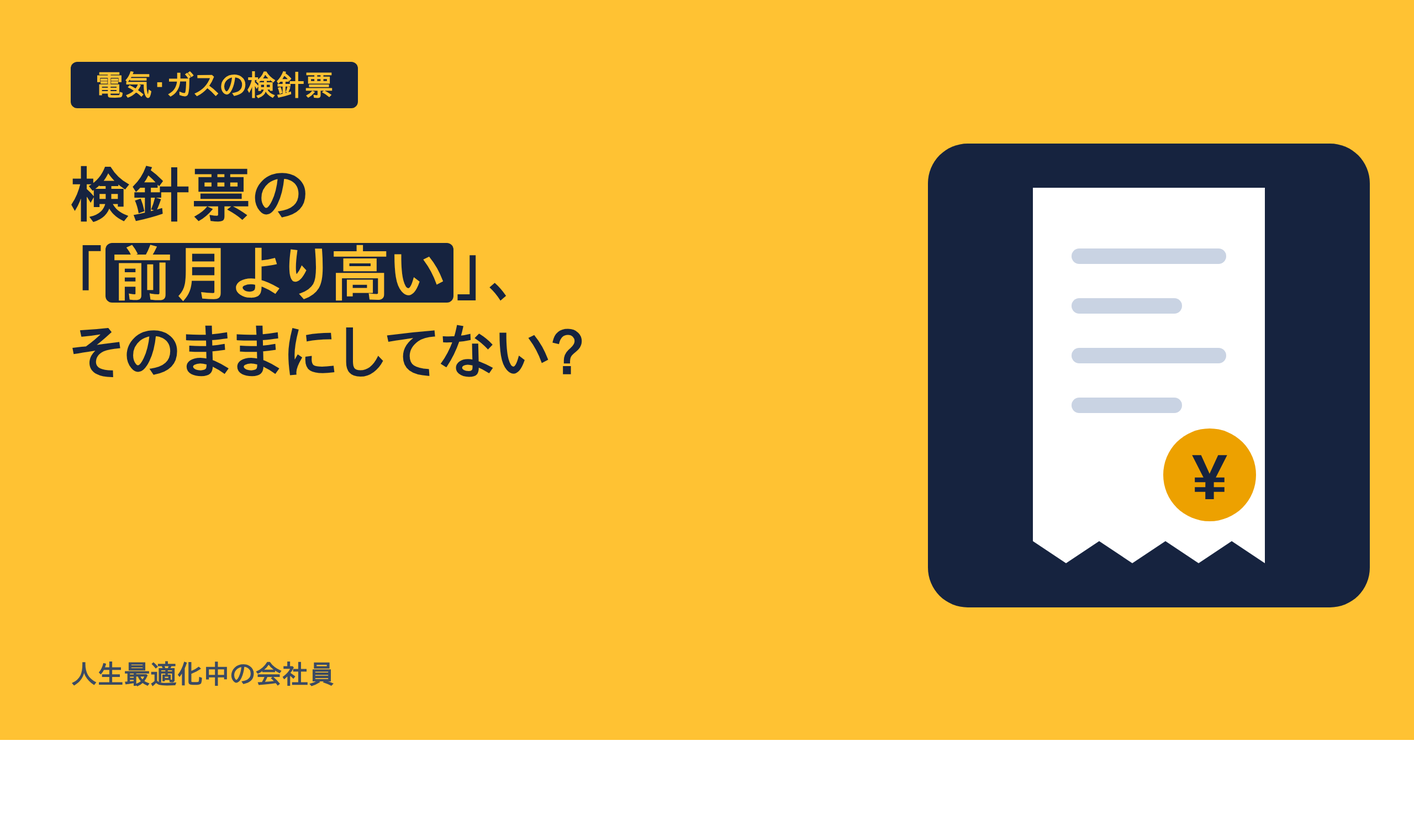
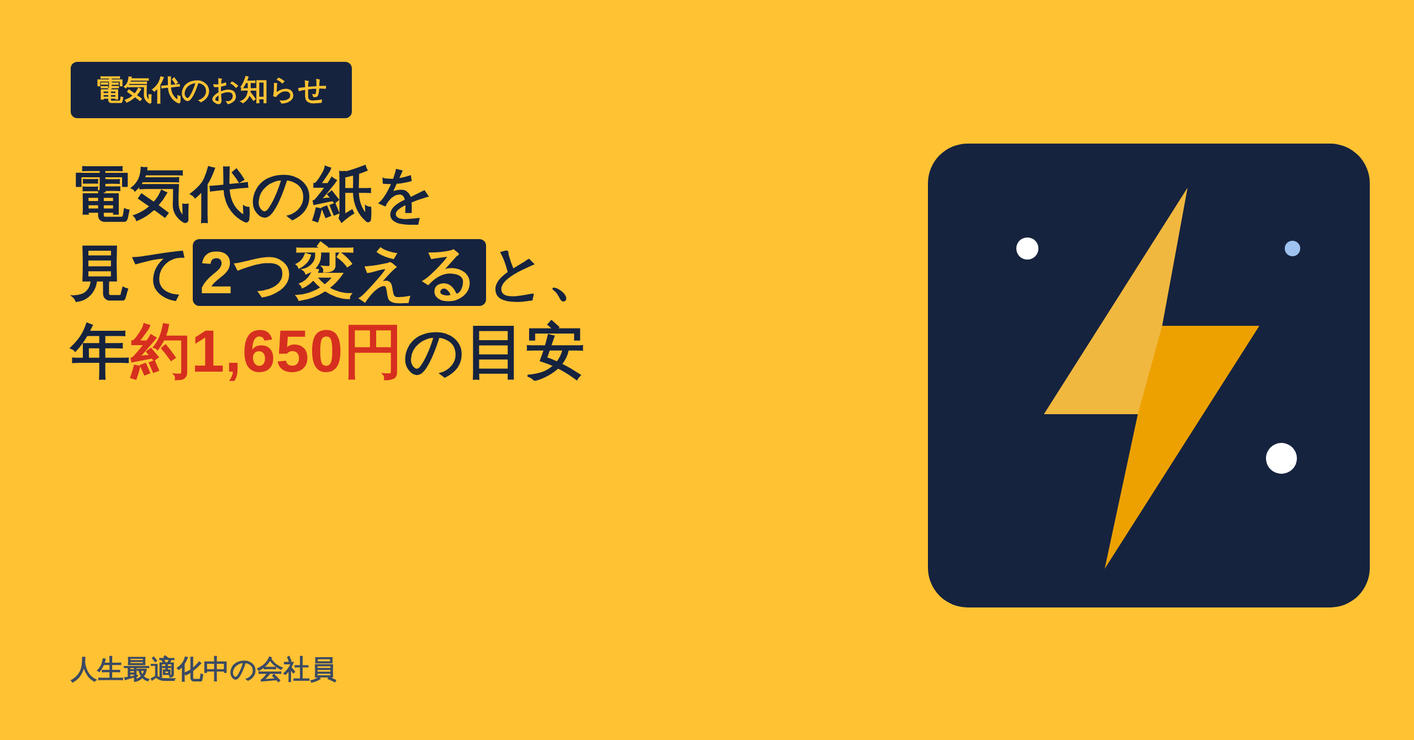
2026-11-02_001: revised with numbers, figures
Claude-Session: https://claude.ai/code/session_019jxzMkHZEL8EPC28xkVZW1

diff --git a/runs/2026-11-02_001/05_revised.md b/runs/2026-11-02_001/05_revised.md
@@ -1,0 +1,142 @@
+# 電気代の紙を見て2つ変えると、年約1,650円の目安
+
+【画像:cover.png】
+
+こんにちは、人生最適化中の会社員です。今日は、毎月届く電気代の紙を、数字つきで一緒に見ていきます。
+
+毎月届く電気代の紙(検針票といいます。使った電気の量と料金が書かれた、ポストの紙やアプリの画面のことです)。いちばん大きい合計金額だけ見て、そっと閉じる。そんな人もいると思います。
+
+この紙には「使用量」の欄があります。数字は kWh(キロワットアワーと読む、使った電気の量の単位)で書かれています。この数字が1減ると、電気代はおよそ33円動く目安です。
+
+たとえば、紙を見て「冷房を1℃ゆるめる」「白熱電球を1日1時間減らす」と決めて変えたとします。環境省の数字で計算すると、合わせて年約1,650円の目安です(計算は2か所めで見せます)。
+
+ただ、紙を見るだけでは電気代は下がりません。見て気づいたことを暮らしで変えたとき、はじめて動きます。金額はすべて目安で、下がる保証ではありません。
+
+## 結論:紙で見るのは3か所
+
+契約や会社によって、表示の名前や並びは違います。
+
+【画像:fig1.png】
+
+1. 使用期間の欄:いつの分か、何日分か
+2. 使用量の欄:増えたか、減ったか。ここが金額につながる
+3. ほかの行と契約欄:使用量とは別に動く行がないか
+
+## 先に「ものさし」を決めます
+
+「使用量が1減ったら何円か」を出すには、使用量1あたりの値段が要ります。今回は環境省の2つの数字から作りました。
+
+環境省の調査(令和4年度=2022年度、速報値)では、全国の1世帯あたりの電気は年間3,950kWh、支払金額は13.2万円でした。割り算はこちらでしました。
+
+13.2万円 ÷ 3,950kWh = 約33円/kWh
+
+これは全国平均から出した目安の単価です。前提を3つ書いておきます。
+
+- 1年分の支払金額を、使用量で割った平均です(割り算で出した目安)
+- 基本料金のような固定の部分も混ざっているので、実際に減る額とはずれることがあります
+- 全国平均の支払い額は、令和3年度11.3万円から令和4年度13.2万円へ、1年で約17%動いています(環境省)。33円は、その1年分から出した数字です
+
+以下、この「1kWh=約33円」で計算します。
+
+## 1か所め:使用期間の欄
+
+最初に見るのは、使用期間の日付です。請求の月と、電気を使った期間は、同じとは限りません。日数が違えば、使用量もその分変わります。
+
+ここでやることは、前年の同じ時期の使用量と並べて比べる準備です。前の月との比較は、季節の差が混ざるので参考程度にします。
+
+ここは金額が出る場所ではありません。ただ、土台がずれたまま比べると、次の判断を間違えやすくなります。
+
+## 2か所め:使用量の欄(見て、何を変えるか)
+
+ここが金額につながる場所です。使用量の数字が1減ると約33円、たとえば月に10減らせたら約330円(年なら33円×120で約4,000円)です。
+
+では、何で減らすのか。環境省が公開している数字を、同じものさしに当てはめます。
+
+**エアコン**
+環境省のページによると、エアコンの室温を1℃ゆるめると、消費電力量は冷房で約13%、暖房で約10%減る見込みです。ここで出てくる夏28℃・冬20℃は「部屋の温度」の目安の話です。
+
+別のページ(環境省の節電のページ)には、リモコンの冷房の設定を27℃から28℃に1℃上げた場合、年間30.2kWhの削減とあります。環境省のページの条件(使い方や時間など)での数字です。こちらは設定温度の試算で、上の部屋の温度の話とは別です。
+
+30.2kWh × 33円 = 996.6円で、約1,000円です。ただし冷房は夏の話なので、来年の夏の目安になります。
+
+暖房は、環境省のページに割合(約10%)しかなく、もとの使用量が分からないため、金額は出せませんでした。
+
+**照明**
+同じ環境省の節電のページに、照明を1日1時間減らすと、白熱電球で年19.71kWh、蛍光ランプで年4.38kWhの削減とあります。
+
+19.71kWh × 33円 = 約650円、4.38kWh × 33円 = 約140円です。白熱電球を使っていない家では、これより小さくなります。LED照明の数字は確認できなかったので、載せていません。
+
+**冒頭の「2つ」の合計**
+冷房1℃の約1,000円(996.6円)と、白熱電球1時間の約650円(650.4円)を足すと、約1,647円です。丸めて、年約1,650円。月にならすと約140円です。使用量では、30.2kWh + 19.71kWh = 約50kWhになります。
+
+月10の減らし方に比べると、まだ届きません。小さな工夫を重ねて届くかどうか、というのが実感に近いと思います(推測)。
+
+**待機電力**
+環境省のページには、家庭の電気の約5%が待機電力、とあります。日付のない資料で、古い可能性もあります。年3,950kWhの5%は約200kWhで、33円をかけると約6,500円です。
+
+これは待機電力の合計の目安で、全部はなくせません。冷蔵庫や時計のように、抜けないものも含まれます。節約できる額とは別物として見るのがよさそうです。
+
+ここで使った節電のページは、2022年6月に更新された環境省の過去のページです。今の機器や暮らしに、そのまま当てはまるとは限りません。
+
+## 3か所め:ほかの行と契約欄
+
+使用量以外の行も並んでいます。使用量が同じなのに金額が動いたときは、その行に手がかりがあるかもしれません。細かい仕組みはここでは省きます。「使用量とは別の行」とだけ見ておけば十分です。
+
+ここでやることは、「使用量が増えた分」と「それ以外の行が増えた分」を、別々にメモするだけです。
+
+契約欄には、契約の内容が書かれています。基本料金などの決まり方は会社やプランで違うので、この記事では金額を書きません。契約欄に書いてある内容を、会社の公式の料金表で確かめておくと安心です。
+
+## つまずきやすいところ
+
+- 金額が上がったとき、使用量の欄は見ずに、家族に「つけっぱなしにしてない?」と聞いてしまう、という人もいるかもしれません。使用量が同じなら、ほかの行が動いたのかもしれず、誰かが使いすぎたとは限りません。
+- 前の月より使用量が減っているのを見て、「節約できた」と思う、という人もいると思います。季節や日数でも変わるので、前年の同じ時期と並べると、判断しやすくなります。
+
+## まとめ:数字は1枚の表に
+
+- 使用量の数字が1減ると、約33円(目安)
+- 冷房1℃は年約1,000円(来年の夏の目安)
+- 待機電力の数字は、なくせる額ではない
+
+細かい数字は、下の表にまとめました。
+
+【画像:fig2.png】
+
+次に紙が届いたら、使用期間と使用量の2か所だけでも見てみてください。
+
+前の記事「11月から電気代が上がる予定。先に確かめたい契約の3項目」に、契約の確かめ方をまとめています。
+
+https://note.com/chidou_taxian/n/ne911cb6f2f29
+
+※この記事は一般的な情報で、特定の契約や乗り換えをすすめるものではありません。金額は令和4年度の全国平均から出した目安で、効果を保証するものではなく、住まいや使い方で変わります。判断はご自身で行い、必要に応じて電力会社や専門家に相談してください。
+
+最後まで読んでくれて、ありがとうございます。
+
+次回は、「手取りが思ったより少ない」の中身を、給与明細で一緒に見ていきます。
+
+## 情報源
+- https://www.env.go.jp/content/000211423.pdf (環境省 令和4年度 家庭部門のCO2排出実態統計調査 速報値。令和5年10月公表。取得日2026-11-02)
+- https://www.env.go.jp/earth/ondanka/kateico2tokei/energy/detail/06/ (環境省 エアコンの使い方について。取得日2026-11-02)
+- https://ondankataisaku.env.go.jp/coolchoice/setsuden/home/saving03.html (環境省 みんなで節電アクション「エアコンで節電」。2022-06-28更新。古い情報の可能性あり)
+- https://ondankataisaku.env.go.jp/coolchoice/setsuden/home/saving01.html (環境省 みんなで節電アクション「こまめにスイッチオフ」。2022-06-28更新。古い情報の可能性あり)
+- https://ondankataisaku.env.go.jp/coolchoice/zc-action30/ (環境省 ゼロカーボンアクション30。日付なし。古い情報の可能性あり)
+- https://note.com/chidou_taxian/n/ne911cb6f2f29 (筆者の過去記事。契約の確かめ方)
+
+## 修正履歴
+- 問題1: タイトルを「電気代の紙を見て2つ変えると、年約1,650円の目安」(26字・1文)に変更。kWhを外し、「見て変えたとき」「目安」が分かる形にした。本文の具体策(冷房1℃+白熱電球1時間=約1,647円)と数字が合うことを確認。「探す3か所」は題から外した。
+- 問題2: 主役を「使用量の数字が1減ると約33円」に変更。月10は「たとえば」に下げ、冷房1℃+白熱電球1時間=996.6+650.4=約1,647円→年約1,650円、月約140円を、計算つきで正直に並べた。月10に届かない点も明記。
+- 問題3: 冷房は「来年の夏の目安」と明記。暖房は割合(約10%)のみで金額を出せない理由を1文で追加。白熱電球は「使っていない家ではこれより小さい」と追加。
+- 問題4: 前提に、令和3年度11.3万円→令和4年度13.2万円(約17%動いた)を追加。令和4年度に「2022年度」を併記。「推測を含む目安」を「割り算で出した目安」に変更。
+- 問題5: kWhを導入で1回「キロワットアワー、使った電気の量の単位」と説明。以後は「使用量の数字」と言いかえ、出る回数を減らした。
+- 問題6: 導入で数字(約33円、年約1,650円)を先に出した。注意書きは1行に。前の記事リンクは末尾(免責・お礼の前)へ移動。
+- 問題7: 燃料費調整額・賦課金・アンペアの名前と仕組みの説明を削り、「使用量とは別の行」とだけ書き、契約欄は会社の公式の料金表で確かめる、までにした。
+- 問題8: 「28℃は部屋の温度の話」と「設定を27→28℃は設定温度の試算で別の話」を分けて書いた。30.2kWhに「環境省のページの条件での数字」と添えた。
+- 問題9: 【リンク任意:…】を本文から外し、author_notes.md に移した(貼る場合はまとめのあと、免責文と離して)。旧版 note_post は使わないこと、run.json の plan.title が旧版の題のままであることを author_notes.md に記録(export-note で作り直す)。
+- 問題10: あるあるを3か所に削減(冒頭、家族に聞く、前の月より減った)。待機電力のつまずきは削除。author_notes.md の記録も合わせた。
+- 問題11: figures.json を作り直し(cover=tag「電気代のお知らせ」・icon bolt・猫なし・1行12字以内、fig1=timeline 3項目、fig2=checklist 3列5行・boxes:false・widths合計1152)。題・列名・tagに「検針票」を使わず、kWhは列名の説明つきのみ。蛍光ランプのW数は本文にも図にも書いていない。
+- 問題12: 「2022年に公開」を「2022年6月に更新された環境省の過去のページ」に変更。
+- 問題13: 注意書きを冒頭1行・前提・末尾免責に整理。まとめを3行にして、細かい数字は fig2 に任せた。字数は約2,900字前後で2,500〜3,500字の範囲(手で数えた概算)。
+- 問題14: 待機電力の「上限の目安」をやめ、「合計の目安(全部はなくせない)」にそろえた(本文・図)。
+- 問題15: 前の記事の題「11月から電気代が上がる予定。先に確かめたい契約の3項目」を添えた。URLは変更なし。
+- 問題16: 「読まないでください」「確かめてください」を、「別物として見るのがよさそうです」「確かめておくと安心です」に変更。説教調を和らげた。
+- 問題17: 蛍光ランプのW数は、本文・図とも書いていない(4.38Wは使わず)。
+- 校正: 「検針票」は導入の1回だけ(説明つき)、以後は「電気代の紙」に統一。「お知らせ」と「紙」の表記ゆれを「紙」にそろえた。[S4]などの記号を本文から外し「(環境省)」に。「(筆者の計算)」は「割り算はこちらでしました」の1回に。「見たら、次にすることは」の繰り返しを言い換え。読点を減らした。説明口調の「先に大事なことを書きます」「順番に書いていきます」を削除。

diff --git a/runs/2026-11-02_002/03_draft.md b/runs/2026-11-02_002/03_draft.md
@@ -1,0 +1,124 @@
+# ネット通販の「合わなければ返せる」、店の決まり次第
+
+【画像:cover.png】
+
+こんにちは、人生最適化中の会社員です。今日は、ネット通販の返品の話を一緒に確認します。
+
+夜、スマホでセールのページを見ていて、気に入った服をカートに入れる。サイズに迷ったので、MとLを両方注文。「合わなければ返せばいいし」と、返品のルールは読まずに「購入する」を押す。
+
+数日後に届いた2着は、どちらもしっくりこない。返そうとして商品ページを見直すと、小さな字で「返品不可」。
+
+こういう場面に心当たりがある、という人もいると思います。この記事では、国民生活センターの案内をもとに、ネット通販の返品の「そもそもの決まり」を整理します。
+
+## 結論:返せるかどうかは、まずお店の決まり
+
+先に結論です。
+
+- ネット通販には、「一定期間なら無条件で契約を取り消せる制度(クーリング・オフ)」が、法律上ありません。
+- 返品できるかどうか、できる場合の条件は、まずそのお店の決まり(利用規約などの特約)で決まります。
+- だから、防ぐ方法はシンプルです。買う前に、返品の条件を1か所だけ見ておくこと。
+
+国民生活センターも、通信販売(ネット通販やテレビショッピングなど)はクーリング・オフできない、と案内しています。同センターは、購入前に「返品できるか、できる条件は何か」を確認することと、商品は受け取ったらすぐ中身を確認することを呼びかけています。
+
+「8日以内なら、理由は何でも返せる」と思っていた人は、ここで考え方を切り替えておくと安心です。
+
+## 訪問販売とは、ここが違います
+
+「クーリング・オフ」という言葉を聞いたことがある人は、多いと思います。この制度が使えるのは、通販ではなく、主に次のような取引です。国民生活センターの解説では、期間は次のとおりです。
+
+- 訪問販売、電話勧誘販売、特定継続的役務提供、訪問購入:8日間
+- 連鎖販売取引、業務提供誘引販売取引:20日間
+
+どちらも、契約書面などを受け取った日から数えます。つまり、家に来た人に勧められた、電話で勧められた、といった「断りにくい状況で契約してしまいやすい取引」に用意された仕組みです。
+
+一方、ネット通販は、自分で商品を選び、自分のタイミングで注文します。そのため、同じ「8日」という数字があっても、意味が違います。ここを混ぜてしまうのが、よくある思い込みのもとです。
+
+訪問販売や電話勧誘の詳しい手順は、この記事では扱いません。契約について心配なときは、後ろで紹介する相談先に聞いてください。
+
+## お店が決まりを書いていないとき
+
+では、お店が返品について何も書いていなかったらどうなるのか。国民生活センターの案内では、次のように整理されています。
+
+- 返品の条件が、お店の決まり(特約)で定められていれば、それに従う
+- 特約がなければ、商品を受け取った日を含めて8日以内なら返品できる。ただし、返品にかかる費用は消費者(買った人)の負担
+
+ここで気をつけたいのは、「8日以内なら返せる」は、お店が何も書いていないときの話だということです。「返品不可」と書かれていれば、そちらが先に来ます。しかも、返せる場合でも、返品の費用は自分持ちです。
+
+「無料で返せる」と思って買った商品が、実は費用がかかる。この食い違いに、買ってから気づく人もいると思います。
+
+## 買う前に見る所と、届いたらすぐやること
+
+具体的に、何をすればいいか。国民生活センターの呼びかけをもとに、順番にしてみます。
+
+【画像:fig2_checklist.png】
+
+**買う前:商品ページや利用規約で「返品」の条件を見る**
+
+見る場所は、商品ページの注意書きや、お店の利用規約(「返品」「交換」といった項目)です。見るのは次の2点だけでかまいません。
+
+- 返品できるのか、できないのか
+- できるなら、どんな条件か(期間や、商品の状態など)
+
+カートに入れたあと、「購入する」を押す前の1分で足ります。
+
+**届いたら:すぐ中身を確認する**
+
+箱が届いたら、早めに開けて、注文したものと合っているか、傷や汚れがないかを確かめます。国民生活センターも、受け取ったらすぐ中身を確認するよう呼びかけています。
+
+なお、「8日」の数え方は、受け取った日を含めてです(お店が決まりを書いていないとき)。確認が遅れるほど、使える日数は減っていきます。
+
+**あとから困らないために:やり取りの記録を残す**
+
+これは、国民生活センターの案内にあった項目ではなく、僕の考えです。注文の画面や確認メール、お店とのやり取りは、削除せずに残しておくと、あとで状況を説明しやすいと考えられます。
+
+## つまずきやすいところ(読者のあるある)
+
+ここまでの内容で、つまずきやすい場面を2つ挙げます。
+
+**「セールの勢いで、返品の条件を見ずに注文する」**
+
+人気の商品は、売り切れが気になって急いでしまうもの。返品条件を見ないまま購入ボタンを押している、という人もいると思います。対策は、買う前の1分で、先ほどの2点だけ見ることです。
+
+**「届いた箱を、しばらく開けない」**
+
+ほかの用事に追われて、段ボールが部屋の隅に置きっぱなし。気づけば何日も経っていた、という人もいると思います。お店が決まりを書いていないときの「8日」は、受け取った日を含めて数えるので、開けるのが遅れるほど、返せる日数が減ります。お店が返品の期間を決めている場合も、確認が早いに越したことはありません。
+
+## 困ったときは、188へ
+
+返品できると思っていたのにできない、お店と話がかみ合わない。そんなときは、1人で抱え込まずに相談できます。
+
+お住まいの自治体の消費生活センターなどに相談できます。どこに連絡すればいいか分からないときは、消費者ホットライン「188」が案内されています。
+
+個別の注文が返品の対象になるかどうかは、この記事では判断できません。具体的な状況は、相談先に確認してください。
+
+## まとめ
+
+- ネット通販には、「一定期間なら無条件で契約を取り消せる制度(クーリング・オフ)」が法律上ない
+- 返品できるかどうかは、まずお店の決まり(特約)で決まる
+- お店が決まりを書いていないときは、受け取った日を含めて8日以内なら返品できる。ただし返品の費用は自分持ち
+- 買う前に、返品の条件を見る。届いたら、すぐ中身を確認する
+- 困ったら、自治体の消費生活センターや、消費者ホットライン188へ
+
+次にネットで買い物をするとき、カートに入れる前に、「返品」の文字を1回だけ探してみてください。
+
+最後まで読んでくれて、ありがとうございます。
+
+次は、電話や訪問で契約してしまったときに「やめられる期間」を数える方法を、公式の案内で確認する予定です。
+
+この記事は、一般的な情報です。個別の契約や注文については、お住まいの自治体の消費生活センターなどに確認してください。判断は、ご自身でお願いします。
+
+## 情報源
+- https://www.kokusen.go.jp/soudan_now/data/coolingoff.html (国民生活センター「クーリング・オフ」、ページの更新日 2022-06-01、取得日 2026-11-02)
+- https://www.kokusen.go.jp/mimamori/mj_mailmag/mj-shinsen471.html (国民生活センター 見守り新鮮情報 第471号「通信販売はクーリング・オフできません」、2024-01-16、取得日 2026-11-02)
+
+## 執筆メモ(事実・推測・体験の区別)
+- 事実: 通販に法律上のクーリング・オフがない/返品の可否・条件は特約に従う/特約がなければ受け取った日を含めて8日以内は返品可で費用は消費者負担/購入前に返品条件を確認、受け取ったらすぐ中身を確認/自治体の消費生活センターに相談でき、消費者ホットライン188が案内されている → [S2][S1]。訪問販売・電話勧誘販売・特定継続的役務提供・訪問購入は8日、連鎖販売取引・業務提供誘引販売取引は20日、契約書面などを受け取った日から → [S1]。
+- 推測: 「記録を残すと説明しやすいと考えられます」(出典なし。本文でも「僕の考え」と明記)/訪問販売は「断りにくい状況で契約しやすい取引に用意された仕組み」という言い回しは、一般的な説明として書いた補足(出典の文言ではない)/あるある場面(導入、つまずき2か所)。
+- 体験: 筆者の体験は書いていない。導入の場面は「こういう場面」という読者向けの想定であり、筆者の体験ではない。【要入力】は作っていない。
+
+(以下は機械検査の対象外の作業メモ。図の指示)
+- cover(figures.json用): {"type":"cover","name":"cover","tag":"通販の返品","title_html":"ネット通販の<br>「<em>返せる</em>」は<br>店の決まり次第","icon":"cart"} 。猫なし、photo は書かない。1行12字以内(6・6・7字)。
+- fig1(比較表。任意): {"type":"checklist","name":"fig1_compare","title":"同じ「8日」でも、意味が違う","columns":["","訪問販売・電話勧誘など","ネット通販"],"widths":[260,460,432],"boxes":false,"rows":[["クーリング・オフ","ある(8日または20日)","法律上ない"],["数え始め","契約書面などを受け取った日","お店が決まりを書いていないときは、受け取った日を含めて8日"],["返品の可否","制度で取り消せる","まずお店の決まり(特約)"]]} 。
+- fig2(本文の【画像:fig2_checklist.png】): {"type":"checklist","name":"fig2_checklist","title":"ネット通販、買う前と届いたあとの3つ","columns":["いつ","やること","見る所"],"widths":[220,520,412],"boxes":false,"rows":[["買う前","返品の条件を見る","商品ページ・利用規約の「返品」「交換」"],["届いたら","すぐ中身を確認する","注文した物か、傷や汚れがないか"],["困ったら","相談する","消費生活センター・188"]]} 。必須項目 title・columns・rows あり。本文では fig2 を置き、fig1 を使う場合は「訪問販売とは、ここが違います」の見出し直下に【画像:fig1_compare.png】を足す。
+- 表紙は短い型+ピクトグラム cart。10-27のサブスク(phone)と続かない。
+- 次回予告は、02_ideas.md の候補2(未承認)の内容を指す。実際の翌日の記事に合わせて、承認2の前に直してください。

diff --git a/runs/2026-11-02_001/author_notes.md b/runs/2026-11-02_001/author_notes.md
@@ -1,43 +1,30 @@
 # 作業メモ(読者向けではない。記事には入れない)
 
-## 新しい方向での書き直し(2026-11-02。持ち主の指示)
-- 方向: 「電気代のお知らせの見る場所→次に変えること→その数字(試算)」。「検針票」は本文の最初に1回だけ説明つきで使い、タイトルとそのあとは使わない。
-- 旧版: history/round_1/ に残してある。体験欄「僕自身の失敗」は、今回は作っていない(読者向けの「つまずきやすいところ」にした)。
-- 単価は環境省の2つの数字から作った「約33円/kWh」(13.2万円÷3,950kWh)だけを使用。本文に計算式と前提を書いた。31円・基本料金・賦課金4.18円などの未照合の数字は使っていない。
+## 現在の本文(05_revised.md、2026-11-02 修正版)
+- 題: 電気代の紙を見て2つ変えると、年約1,650円の目安(26字)。予備案: 「電気代の紙、使用量が「1」減ると約33円の目安」(23字)、「電気代、合計だけ見て閉じてない?使用量1で約33円」(25字)。
+- 「検針票」は導入の1回だけ(説明つき)。題・見出し・図では使わない。kWhは導入で1回説明。
+- 数字は環境省(S4・S6〜S9)と、そこからの計算だけ。33.42→約33円/kWh。30.2×33=996.6、19.71×33=650.4、合計1,647→年約1,650円(月約140円)。4.38×33=144.5→約140円。3,950×5%=197.5→約200kWh→約6,500円。月10×33=330円、×12=約4,000円。令和3年度11.3万→令和4年度13.2万=約17%。
+- 未照合の数字(31円、基本料金、燃料費調整額、賦課金、LED、補助の金額)は使っていない。蛍光ランプのW数は書かない。
+- 体験欄「僕自身の失敗」は作っていない。【要入力】なし。
 
-### タイトル案(仮。3つ。すべて30字以内。試算と分かる形、断定しない)
-1. 月10kWh減らすと約330円。電気代のお知らせで探す3か所(30字・03_draft.mdで使用)
-2. 電気代のお知らせ、「10kWh減」で月330円の目安(27字)
-3. 電気代のお知らせの使用量、10kWhで約330円(24字)
-- 避けた例: 「電気代のお知らせ、見る場所を変えると月330円?」(見るだけで下がるように読めるため)。
-
-### あるあるの記録(Claudeの提案・未確認。合わなければ消してください)
+## あるあるの記録(Claudeの提案・未確認。合わなければ消してください)
 - 冒頭: 「合計金額だけ見て、そっと閉じる。そんな人もいると思います。」
 - つまずき1: 使用量を見ずに家族に「つけっぱなしにしてない?」と聞く。
-- つまずき2: 待機電力の約6,500円を見て「全部抜けば浮く」と思う。
-- つまずき3: 前の月より減ったから節約できた、と考える。
-- 合計4か所(方針は2〜3か所まで)。多ければ、つまずき2か3を削ってください。すべて読者の場面で、割合の数字なし。
+- つまずき2: 前の月より減ったから節約できた、と思う。
+- 合計3か所(待機電力の「全部抜けば浮く」は削除)。すべて読者の場面で、割合の数字なし。
 
-### 図の指示
-- cover: icon は bolt か receipt。tag は「電気代のお知らせ」。10-19の表紙から1要素だけ変えて、analytics/experiment_log.md に記録。
-- fig1: timeline 3ステップ(使用期間/使用量/ほかの行と契約欄)。
-- fig2: 数字の表=試算の早見表(5行。列: 何を変える/減るkWh/約◯円)。note に単価の式と「目安・保証ではない」を入れる。
-- 現在の figures.json と images/figures/ は旧版(検針票・5項目)のまま。作り直しが必要。
+## アフィリエイトの印(本文には出していない)
+- 【リンク任意:電気・ガス 比較系】 貼る場合は、まとめのあと・免責の文と離して置く(免責で「乗り換えをすすめない」と書いているため、近くに置かない)。
 
-### 数字の計算(確認用)
-- 13.2万円÷3,950kWh=33.42→約33円/kWh。3,950÷12=329kWh。13.2万÷12=11,000円。
-- 33×10=330円(月)。33×120=3,960→約4,000円(年)。
-- 30.2×33=996.6→約1,000円。19.71×33=650.4→約650円。4.38×33=144.5→約140円。
-- 3,950×0.05=197.5→約200kWh。197.5×33=6,517.5→約6,500円(上限の目安)。
+## 図の指示(figures.json は作り直し済み)
+- cover: icon bolt、tag「電気代のお知らせ」、猫なし。10-19の表紙(icon bolt、tag「節約」)から、変えた要素はtagの1つ。analytics/experiment_log.md への記録は未(持ち主・記録担当が追記)。
+- fig1: timeline 3項目。fig2: checklist(boxes:false)、3列5行の試算の早見表。
 
-## 承認2の前の確認事項(持ち主へ)
-- 今回は補助(12月〜2月)の話を入れていない。入れる場合は、先に資源エネルギー庁の公式サイトで確認する。
-- S7〜S9は環境省の過去のページで、古い可能性の注意書きがある。公開前に、今のページで数字が同じか見られるとよい。
+## 公開前の注意(持ち主へ)
+- 旧版の note_post/(title.txt・body.md、題「検針票の「前月より高い」…」)は使わない。承認2のあと export-note で作り直す。
+- run.json の plan.title は旧版の題(検針票)のまま。ダッシュボードに旧版の題が出る可能性がある。
+- S7〜S9は環境省の過去のページ(古い可能性)。公開前に今のページで数字が同じか見られるとよい。
+- 補助(12月〜2月)の話は入れていない。入れる場合は、先に資源エネルギー庁の公式サイトで確認する。
 
-## 持ち主の言葉からの推察(2026-10-27の方針)【旧版で使用。今回の新しい方向では使っていない】
-- 元の言葉(10-19の記事、runs/2026-10-19_001/author_notes.md に記録のもの):「賃貸契約時に紹介されたやつそのまま使ってしまって高くなった。何も考えてなかった」
-- 書き直した文:「賃貸の契約のときに紹介された契約を、そのまま使い続けて、高くなってしまいました。そのときの僕は、何も考えていませんでした。」
-- 足していない: 金額・時期・「何と比べて高いと分かったか」・そのあと見直したか。
-
-## 旧版のメモ
-- 旧版のあるある・画像の仕様は、history/round_1/ を参照。
+## 旧版
+- 旧版は history/round_1/ に残してある。

diff --git a/runs/2026-11-02_002/author_notes.md b/runs/2026-11-02_002/author_notes.md
@@ -1,0 +1,21 @@
+# 作業メモ(読者向けではない。記事には入れない)
+
+## タイトル案(3つ。すべて30字以内。本案は 03_draft.md で使用)
+1. ネット通販の「合わなければ返せる」、店の決まり次第(25字)
+2. 「届いてから返せばいい」、ネットで買う前に見る所(24字)
+3. ネット通販の返品、「送料は店持ち」と思ってない?(24字。返品の費用は特約がなければ消費者負担 [S1][S2]。本文では「送料」とは書かず「返品にかかる費用」と書いた)
+
+## あるあるの記録(Claudeの提案(未確認)。合わなければ消してください)
+- 導入: 「セールで、MとLを両方注文。返品のルールは読まずに購入。届いた2着はどちらもしっくりこない」(読者の場面。筆者の体験ではない)。「こういう場面に心当たりがある、という人もいると思います。」
+- 「お店が決まりを書いていないとき」の節: 「無料で返せると思って買った商品が、実は費用がかかる。この食い違いに、買ってから気づく人もいると思います。」
+- つまずき1: 「セールの勢いで、返品の条件を見ずに注文する」
+- つまずき2: 「届いた箱を、しばらく開けない」
+- 合計4か所(方針は2〜3か所まで)。多ければ、「お店が決まりを書いていないとき」の一文を削ってください。すべて読者の場面で、割合の数字なし。
+
+## 使った数字(すべて本文確認できたもの)
+- 8日(訪問販売など・通販で特約がないとき)、20日(連鎖販売取引など)、188(消費者ホットライン)。5年保管などは使っていない。
+
+## 承認2の前の確認事項
+- 次回予告(電話や訪問の契約を「やめられる期間」)は、候補2が未承認のため、翌日の記事に合わせて直してください。
+- 「やり取りの記録を残す」は国民生活センターの案内にない項目なので、本文で「僕の考え」と書いた。不要なら削除してください。
+- 図の指示は 03_draft.md の末尾メモにある。figures.json は未作成。
